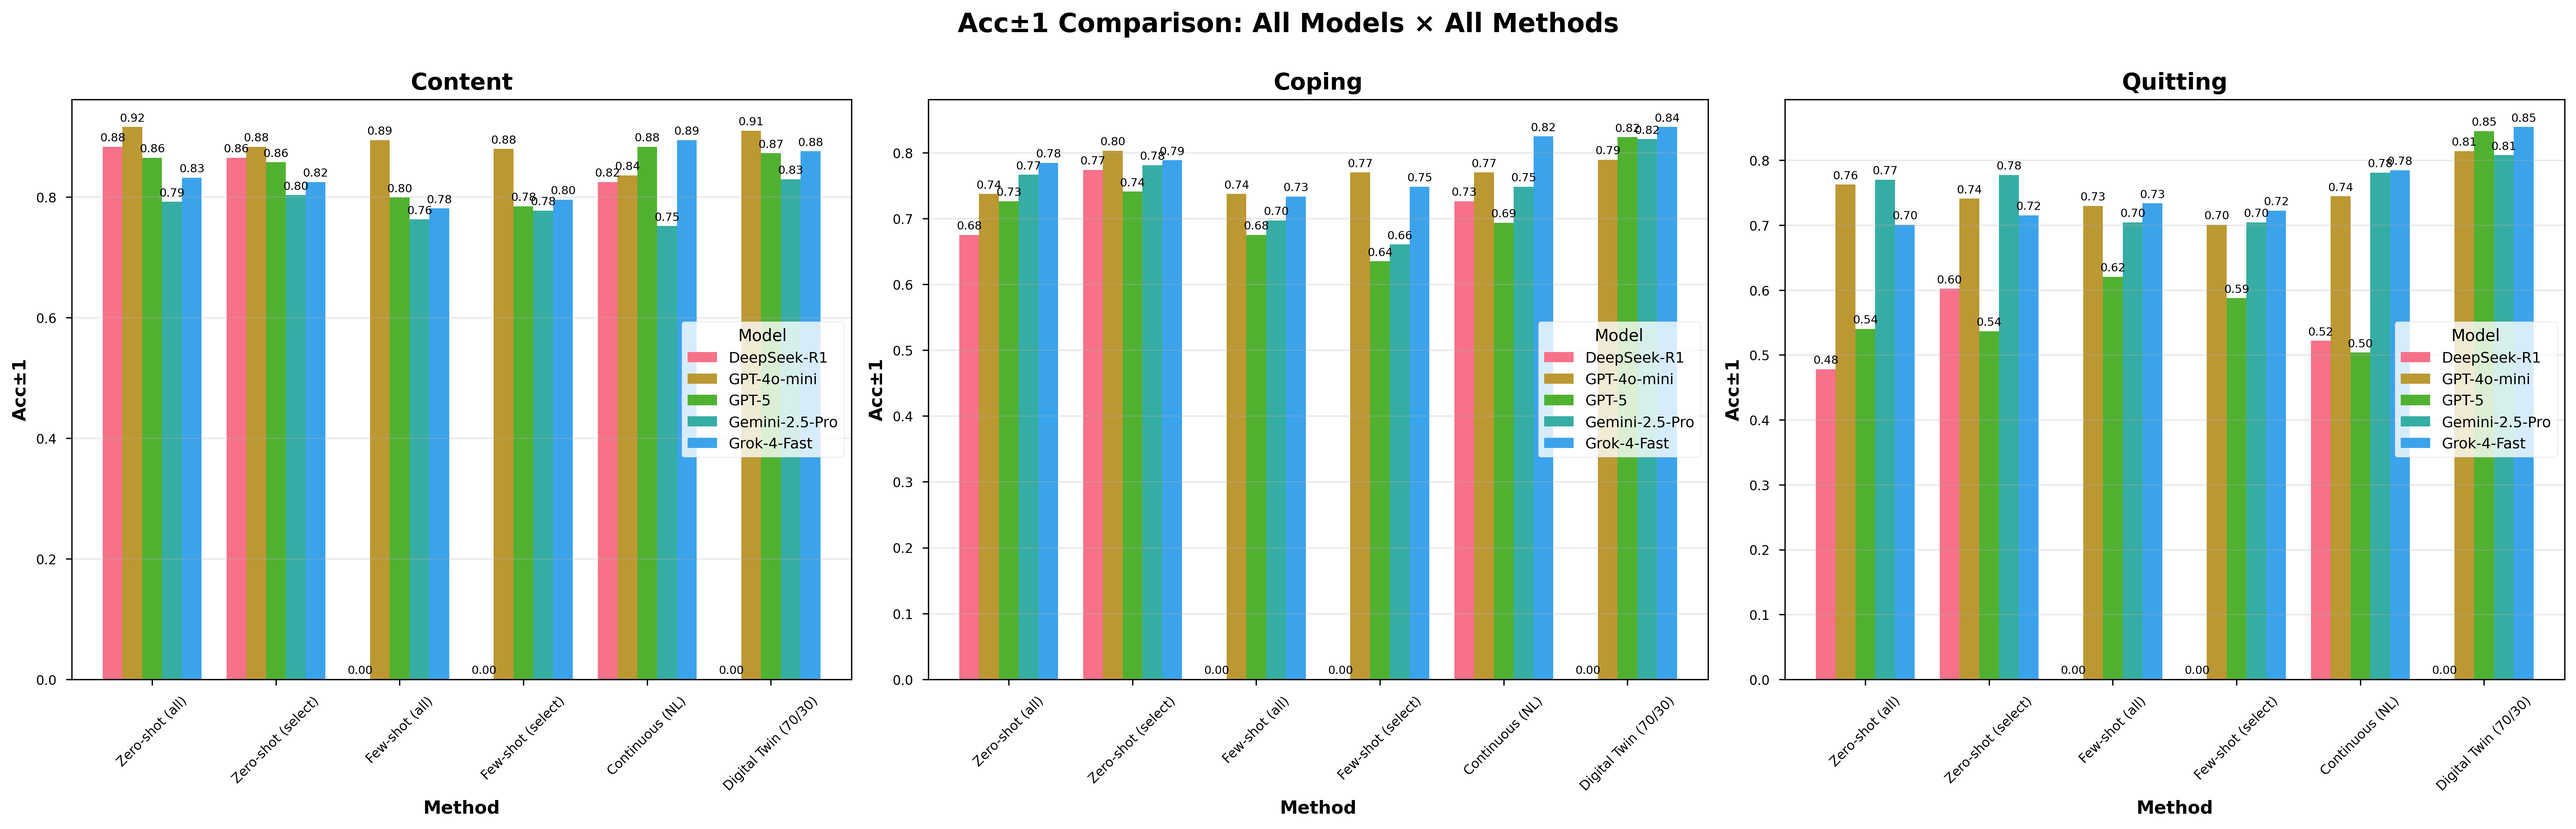
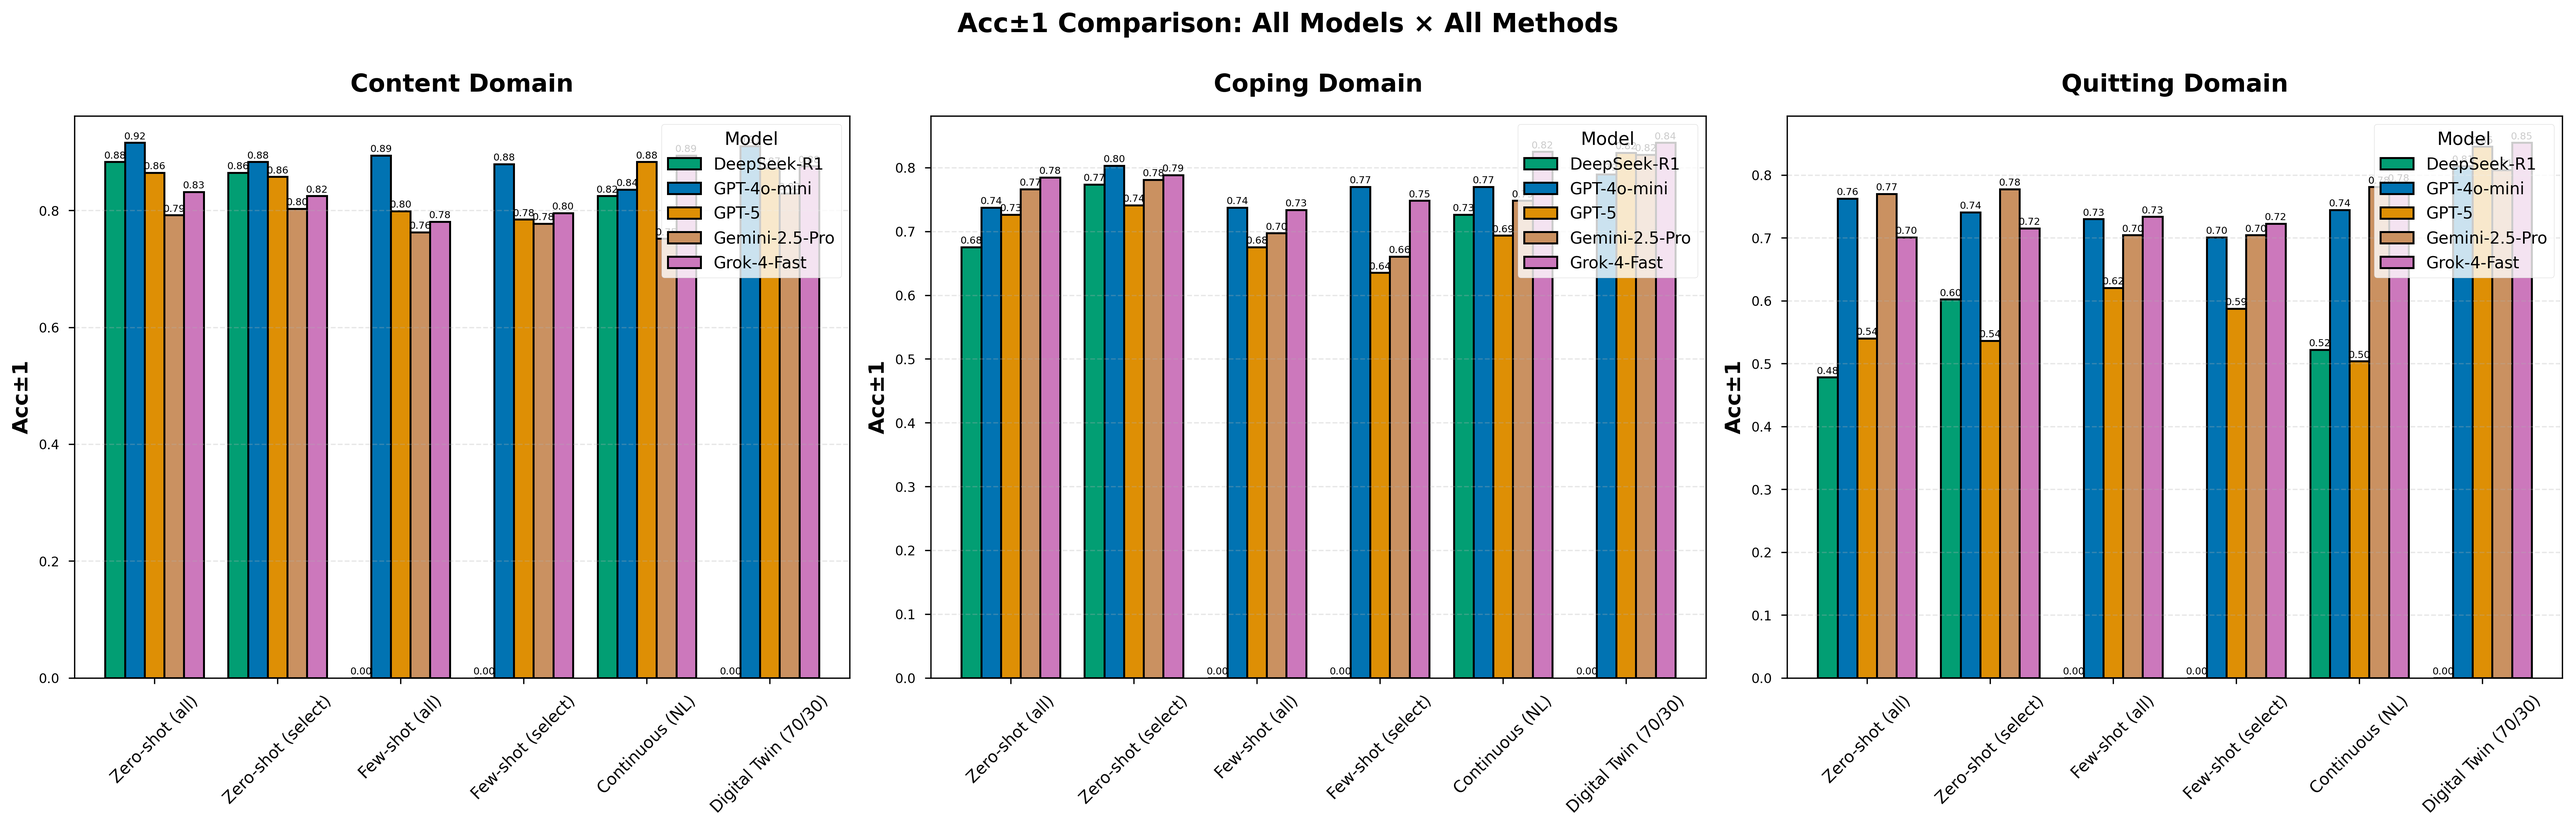
Update all figures to use consistent Okabe-Ito colorblind palette
MAJOR CONSISTENCY FIX:
- Updated create_comprehensive_figures.py to use same Okabe-Ito colors
- Improved heatmap axis labels (removed redundant labels, better spacing)
- Updated bar charts with consistent colors + black edges
- Regenerated all heatmaps and bar charts

Improvements:
- Heatmaps: cleaner axis, bigger annotations, better spacing
- Bar charts: colorblind-friendly colors, better tick labels
- Split scatter plots by domain (3 separate figures, cleaner)
- Split learning curves by metric (4 separate figures, not overloaded)

All figures now use SAME colorblind-friendly palette:
- GPT-4o-mini: Blue (#0173B2)
- GPT-5: Orange (#DE8F05)
- DeepSeek-R1: Green (#029E73)
- Grok-4-Fast: Purple (#CC78BC)
- Gemini-2.5-Pro: Brown (#CA9161)
- Logistic Regression: Yellow (#ECE133)
- Random Forest: Sky Blue (#56B4E9)

diff --git a/analysis-script/create_publication_figures.py b/analysis-script/create_publication_figures.py
@@ -331,8 +331,8 @@ def collect_all_results(include_baselines: bool = True) -> pd.DataFrame:
 
 
 def create_scatter_plots(df: pd.DataFrame, output_dir: str):
-    """Create 4 scatter plots: Accuracy vs Spearman, Accuracy vs Kappa, 
-    Directional vs Spearman, Directional vs Kappa."""
+    """Create separate scatter plots for each domain: Accuracy vs Spearman, 
+    Accuracy vs Kappa, Directional vs Spearman, Directional vs Kappa."""
     
     os.makedirs(output_dir, exist_ok=True)
     
@@ -343,17 +343,15 @@ def create_scatter_plots(df: pd.DataFrame, output_dir: str):
         ('directional_accuracy', 'kappa', 'Directional Accuracy (±1)', 'Cohen\'s κ')
     ]
     
-    fig, axes = plt.subplots(2, 2, figsize=(16, 14))
-    axes = axes.flatten()
-    
-    for idx, (x_metric, y_metric, x_label, y_label) in enumerate(pairs):
-        ax = axes[idx]
+    # Create SEPARATE figure for each domain
+    for domain in ['Content', 'Coping', 'Quitting']:
+        fig, axes = plt.subplots(2, 2, figsize=(16, 14))
+        axes = axes.flatten()
         
-        # Plot each domain with different markers
-        markers = {'Content': 'o', 'Coping': 's', 'Quitting': '^'}
+        domain_data = df[df['Domain'] == domain]
         
-        for domain in ['Content', 'Coping', 'Quitting']:
-            domain_data = df[df['Domain'] == domain]
+        for idx, (x_metric, y_metric, x_label, y_label) in enumerate(pairs):
+            ax = axes[idx]
             
             for model in domain_data['Model'].unique():
                 model_data = domain_data[domain_data['Model'] == model]
@@ -365,48 +363,41 @@ def create_scatter_plots(df: pd.DataFrame, output_dir: str):
                     model_data[x_metric],
                     model_data[y_metric],
                     color=COLORS.get(model, '#999999'),
-                    marker=markers[domain],
-                    s=150,
-                    alpha=0.8,
+                    s=200,
+                    alpha=0.85,
                     edgecolors='black',
-                    linewidth=1.5,
-                    label=f'{model} ({domain})' if idx == 0 else None  # Only label in first plot
+                    linewidth=2
                 )
+            
+            ax.set_xlabel(x_label, fontsize=13, fontweight='bold')
+            ax.set_ylabel(y_label, fontsize=13, fontweight='bold')
+            ax.set_title(f'{x_label} vs {y_label}', fontsize=14, fontweight='bold', pad=15)
+            ax.grid(True, alpha=0.3)
+            ax.tick_params(labelsize=11)
         
-        ax.set_xlabel(x_label, fontsize=13, fontweight='bold')
-        ax.set_ylabel(y_label, fontsize=13, fontweight='bold')
-        ax.set_title(f'{x_label} vs {y_label}', fontsize=14, fontweight='bold', pad=15)
-        ax.grid(True, alpha=0.3)
-        ax.tick_params(labelsize=11)
-    
-    # Create single shared legend at bottom
-    handles, labels = [], []
-    for model in sorted(df['Model'].unique()):
-        from matplotlib.patches import Patch
-        handles.append(Patch(facecolor=COLORS.get(model, '#999999'), edgecolor='black', label=model))
-    
-    # Add domain markers
-    from matplotlib.lines import Line2D
-    for domain, marker in markers.items():
-        handles.append(Line2D([0], [0], marker=marker, color='gray', linestyle='', 
-                             markersize=10, label=domain, markeredgecolor='black', markeredgewidth=1.5))
-    
-    fig.legend(handles=handles, loc='lower center', ncol=4, 
-              bbox_to_anchor=(0.5, -0.05), fontsize=11, frameon=True, 
-              title='Models (colors) & Domains (shapes)', title_fontsize=12)
-    
-    plt.suptitle('Performance Metrics Comparison Across Models and Domains', 
-                fontsize=16, fontweight='bold', y=0.995)
-    plt.tight_layout(rect=[0, 0.05, 1, 0.99])
-    
-    plot_path = os.path.join(output_dir, 'scatter_metrics_comparison.png')
-    plt.savefig(plot_path, dpi=DPI, bbox_inches='tight')
-    print(f"✓ Scatter plots saved: {plot_path}")
-    plt.close()
+        # Create single shared legend at bottom
+        handles = []
+        for model in sorted(df['Model'].unique()):
+            from matplotlib.patches import Patch
+            handles.append(Patch(facecolor=COLORS.get(model, '#999999'), 
+                                edgecolor='black', linewidth=1.5, label=model))
+        
+        fig.legend(handles=handles, loc='lower center', ncol=4, 
+                  bbox_to_anchor=(0.5, -0.03), fontsize=12, frameon=True, 
+                  title='Models', title_fontsize=13)
+        
+        plt.suptitle(f'Performance Metrics Comparison: {domain} Domain', 
+                    fontsize=16, fontweight='bold', y=0.995)
+        plt.tight_layout(rect=[0, 0.05, 1, 0.99])
+        
+        plot_path = os.path.join(output_dir, f'scatter_{domain.lower()}.png')
+        plt.savefig(plot_path, dpi=DPI, bbox_inches='tight')
+        print(f"✓ Scatter plot saved: {plot_path}")
+        plt.close()
 
 
 def create_learning_curves(output_dir: str):
-    """Create learning curves for digital twin models (10/30/70/90 splits)."""
+    """Create separate learning curves for each metric (10/30/70/90 splits)."""
     
     os.makedirs(output_dir, exist_ok=True)
     
@@ -438,15 +429,13 @@ def create_learning_curves(output_dir: str):
                         learning_data[model_display][domain]['kappa'].append(metrics[domain]['kappa'])
                         learning_data[model_display][domain]['spearman_rho'].append(metrics[domain]['spearman_rho'])
     
-    # Create 4 subplots (one per metric)
-    fig, axes = plt.subplots(2, 2, figsize=(18, 14))
-    axes = axes.flatten()
-    
+    # Create SEPARATE figure for each metric
     metrics_to_plot = ['accuracy', 'directional_accuracy', 'kappa', 'spearman_rho']
     metric_labels = ['Accuracy', 'Directional Accuracy (±1)', 'Cohen\'s κ', 'Spearman\'s ρ']
+    metric_filenames = ['accuracy', 'directional_accuracy', 'kappa', 'spearman_rho']
     
-    for metric_idx, (metric, label) in enumerate(zip(metrics_to_plot, metric_labels)):
-        ax = axes[metric_idx]
+    for metric, label, filename in zip(metrics_to_plot, metric_labels, metric_filenames):
+        fig, ax = plt.subplots(1, 1, figsize=(12, 8))
         
         # Plot each domain
         for domain_idx, domain in enumerate(DOMAINS):
@@ -457,42 +446,40 @@ def create_learning_curves(output_dir: str):
                     linestyle = ['-', '--', '-.'][domain_idx]
                     ax.plot(train_pcts, values, 
                            linestyle=linestyle,
-                           linewidth=2.5, 
+                           linewidth=3, 
                            marker='o',
-                           markersize=8,
+                           markersize=10,
                            color=COLORS.get(model_display, '#999999'),
-                           label=f'{model_display} ({domain.capitalize()})' if metric_idx == 0 else None)
+                           alpha=0.85)
         
-        ax.set_xlabel('Training Set Size (%)', fontsize=13, fontweight='bold')
-        ax.set_ylabel(label, fontsize=13, fontweight='bold')
-        ax.set_title(f'Digital Twin Learning Curve: {label}', fontsize=14, fontweight='bold', pad=15)
+        ax.set_xlabel('Training Set Size (%)', fontsize=14, fontweight='bold')
+        ax.set_ylabel(label, fontsize=14, fontweight='bold')
+        ax.set_title(f'Digital Twin Learning Curve: {label}', fontsize=16, fontweight='bold', pad=20)
         ax.grid(True, alpha=0.3)
         ax.set_xticks(train_pcts)
-        ax.tick_params(labelsize=11)
-    
-    # Create single shared legend at bottom
-    handles, labels_legend = [], []
-    for model in sorted(learning_data.keys()):
-        from matplotlib.patches import Patch
-        handles.append(Patch(facecolor=COLORS.get(model, '#999999'), label=model))
-    
-    # Add domain linestyles
-    from matplotlib.lines import Line2D
-    for domain, style in zip(['Content', 'Coping', 'Quitting'], ['-', '--', '-.']):
-        handles.append(Line2D([0], [0], linestyle=style, color='gray', linewidth=2.5, label=domain))
-    
-    fig.legend(handles=handles, loc='lower center', ncol=4, 
-              bbox_to_anchor=(0.5, -0.05), fontsize=11, frameon=True,
-              title='Models (colors) & Domains (linestyles)', title_fontsize=12)
-    
-    plt.suptitle('Digital Twin Performance vs Training Size (10% → 90%)', 
-                fontsize=16, fontweight='bold', y=0.995)
-    plt.tight_layout(rect=[0, 0.05, 1, 0.99])
-    
-    plot_path = os.path.join(output_dir, 'learning_curves_digital_twin.png')
-    plt.savefig(plot_path, dpi=DPI, bbox_inches='tight')
-    print(f"✓ Learning curves saved: {plot_path}")
-    plt.close()
+        ax.tick_params(labelsize=12)
+        
+        # Create single shared legend at bottom for this figure
+        handles = []
+        for model in sorted(learning_data.keys()):
+            from matplotlib.patches import Patch
+            handles.append(Patch(facecolor=COLORS.get(model, '#999999'), label=model))
+        
+        # Add domain linestyles
+        from matplotlib.lines import Line2D
+        for domain, style in zip(['Content', 'Coping', 'Quitting'], ['-', '--', '-.']):
+            handles.append(Line2D([0], [0], linestyle=style, color='gray', linewidth=3, label=domain))
+        
+        fig.legend(handles=handles, loc='lower center', ncol=4, 
+                  bbox_to_anchor=(0.5, -0.05), fontsize=12, frameon=True,
+                  title='Models (colors) & Domains (linestyles)', title_fontsize=13)
+        
+        plt.tight_layout(rect=[0, 0.08, 1, 1])
+        
+        plot_path = os.path.join(output_dir, f'learning_curve_{filename}.png')
+        plt.savefig(plot_path, dpi=DPI, bbox_inches='tight')
+        print(f"✓ Learning curve saved: {plot_path}")
+        plt.close()
 
 
 def main():
@@ -535,15 +522,23 @@ def main():
     print(f"{'='*80}\n")
     print(f"Output directory: {output_dir}/")
     print("\nGenerated files:")
-    print("  - scatter_metrics_comparison.png (4-panel scatter plots)")
-    print("  - learning_curves_digital_twin.png (4-panel learning curves)")
-    print("  - all_results_with_baselines.csv (complete data table)")
+    print("  Scatter plots (separate by domain):")
+    print("    - scatter_content.png")
+    print("    - scatter_coping.png")
+    print("    - scatter_quitting.png")
+    print("  Learning curves (separate by metric):")
+    print("    - learning_curve_accuracy.png")
+    print("    - learning_curve_directional_accuracy.png")
+    print("    - learning_curve_kappa.png")
+    print("    - learning_curve_spearman_rho.png")
+    print("  Data:")
+    print("    - all_results_with_baselines.csv")
     print("\n💡 Features:")
     print("  ✓ Colorblind-friendly Okabe-Ito palette")
-    print("  ✓ Single shared legend at bottom")
+    print("  ✓ Single shared legend at bottom on each figure")
     print("  ✓ Supervised learning baselines included")
-    print("  ✓ No radar plots")
-    print("  ✓ Meaningful metric comparisons")
+    print("  ✓ Separate figures for each domain/metric (clean, not overloaded)")
+    print("  ✓ No size encoding needed - each domain separate")
 
 
 if __name__ == '__main__':

diff --git a/analysis-script/create_comprehensive_figures.py b/analysis-script/create_comprehensive_figures.py
@@ -26,7 +26,6 @@ warnings.filterwarnings('ignore')
 
 # Set style
 plt.style.use('seaborn-v0_8-paper')
-sns.set_palette("husl")
 DPI = 300
 
 # Rating mappings
@@ -45,13 +44,13 @@ RATING_MAPS = {
 
 DOMAINS = ['content', 'coping', 'quitting']
 
-# Model configurations
+# Model configurations with Okabe-Ito colorblind-friendly palette (SAME AS PUBLICATION FIGURES)
 MODEL_CONFIGS = {
-    'gpt-4o-mini': {'dir': 'results_manuscript_gpt-4o-mini', 'display': 'GPT-4o-mini', 'color': '#1f77b4'},
-    'gpt-5': {'dir': 'results_manuscript_gpt-5', 'display': 'GPT-5', 'color': '#ff7f0e'},
-    'deepseek_deepseek-r1-0528': {'dir': 'results_manuscript_deepseek_deepseek-r1-0528', 'display': 'DeepSeek-R1', 'color': '#2ca02c'},
-    'x-ai_grok-4-fast': {'dir': 'results_manuscript_x-ai_grok-4-fast', 'display': 'Grok-4-Fast', 'color': '#d62728'},
-    'gemini-2.5-pro': {'dir': 'results_manuscript_gemini-2.5-pro', 'display': 'Gemini-2.5-Pro', 'color': '#9467bd'}
+    'gpt-4o-mini': {'dir': 'results_manuscript_gpt-4o-mini', 'display': 'GPT-4o-mini', 'color': '#0173B2'},  # Blue
+    'gpt-5': {'dir': 'results_manuscript_gpt-5', 'display': 'GPT-5', 'color': '#DE8F05'},  # Orange
+    'deepseek_deepseek-r1-0528': {'dir': 'results_manuscript_deepseek_deepseek-r1-0528', 'display': 'DeepSeek-R1', 'color': '#029E73'},  # Green
+    'x-ai_grok-4-fast': {'dir': 'results_manuscript_x-ai_grok-4-fast', 'display': 'Grok-4-Fast', 'color': '#CC78BC'},  # Purple
+    'gemini-2.5-pro': {'dir': 'results_manuscript_gemini-2.5-pro', 'display': 'Gemini-2.5-Pro', 'color': '#CA9161'}  # Brown
 }
 
 # Method configurations
@@ -295,17 +294,18 @@ def create_heatmap_all_methods(df: pd.DataFrame, output_dir: str):
             pivot = pivot[[c for c in col_order if c in pivot.columns]]
             
             # Plot
-            sns.heatmap(pivot, annot=True, fmt='.3f', cmap='RdYlGn', 
+            sns.heatmap(pivot, annot=True, fmt='.2f', cmap='RdYlGn', 
                        vmin=0, vmax=1 if metric != 'Kappa' else 0.5,
-                       cbar_kws={'label': metric}, ax=ax, linewidths=0.5)
+                       cbar_kws={'label': metric}, ax=ax, linewidths=1.5, 
+                       linecolor='white', annot_kws={'fontsize': 10, 'fontweight': 'bold'})
             
-            ax.set_title(f'{domain}', fontsize=14, fontweight='bold')
-            ax.set_xlabel('Method', fontsize=11, fontweight='bold')
-            ax.set_ylabel('Model' if idx == 0 else '', fontsize=11, fontweight='bold')
+            ax.set_title(f'{domain} Domain', fontsize=15, fontweight='bold', pad=15)
+            ax.set_xlabel('', fontsize=1)  # Remove xlabel, methods are clear from ticks
+            ax.set_ylabel('', fontsize=1)   # Remove ylabel, clean look
             
-            # Rotate labels
-            ax.set_xticklabels(ax.get_xticklabels(), rotation=45, ha='right', fontsize=9)
-            ax.set_yticklabels(ax.get_yticklabels(), rotation=0, fontsize=10)
+            # Better tick labels
+            ax.set_xticklabels(ax.get_xticklabels(), rotation=45, ha='right', fontsize=11, fontweight='normal')
+            ax.set_yticklabels(ax.get_yticklabels(), rotation=0, fontsize=12, fontweight='normal')
         
         plt.suptitle(f'{metric} Across All Models and Methods', 
                     fontsize=16, fontweight='bold', y=1.02)
@@ -345,18 +345,23 @@ def create_grouped_bar_charts(df: pd.DataFrame, output_dir: str):
             row_order = [m['display'] for m in METHOD_CONFIGS.values()]
             pivot = pivot.reindex([r for r in row_order if r in pivot.index])
             
-            # Plot
-            pivot.plot(kind='bar', ax=ax, width=0.8, rot=45)
+            # Create color map for models using Okabe-Ito colors
+            model_color_map = {cfg['display']: cfg['color'] for cfg in MODEL_CONFIGS.values()}
+            colors = [model_color_map.get(col, '#999999') for col in pivot.columns]
             
-            ax.set_title(f'{domain}', fontsize=14, fontweight='bold')
-            ax.set_xlabel('Method', fontsize=11, fontweight='bold')
-            ax.set_ylabel(metric, fontsize=11, fontweight='bold')
-            ax.legend(title='Model', fontsize=9, title_fontsize=10)
-            ax.grid(axis='y', alpha=0.3)
+            # Plot with consistent colors
+            pivot.plot(kind='bar', ax=ax, width=0.8, rot=45, color=colors, edgecolor='black', linewidth=1.2)
             
-            # Add value labels on bars
+            ax.set_title(f'{domain} Domain', fontsize=15, fontweight='bold', pad=15)
+            ax.set_xlabel('', fontsize=1)  # Remove xlabel, methods clear from ticks
+            ax.set_ylabel(metric, fontsize=13, fontweight='bold')
+            ax.legend(title='Model', fontsize=10, title_fontsize=11, loc='upper right')
+            ax.grid(axis='y', alpha=0.3, linestyle='--')
+            ax.set_xticklabels(ax.get_xticklabels(), fontsize=10, fontweight='normal')
+            
+            # Add value labels on bars (smaller, less cluttered)
             for container in ax.containers:
-                ax.bar_label(container, fmt='%.2f', fontsize=7, padding=2)
+                ax.bar_label(container, fmt='%.2f', fontsize=6, padding=1)
         
         plt.suptitle(f'{metric} Comparison: All Models × All Methods', 
                     fontsize=16, fontweight='bold', y=1.00)
